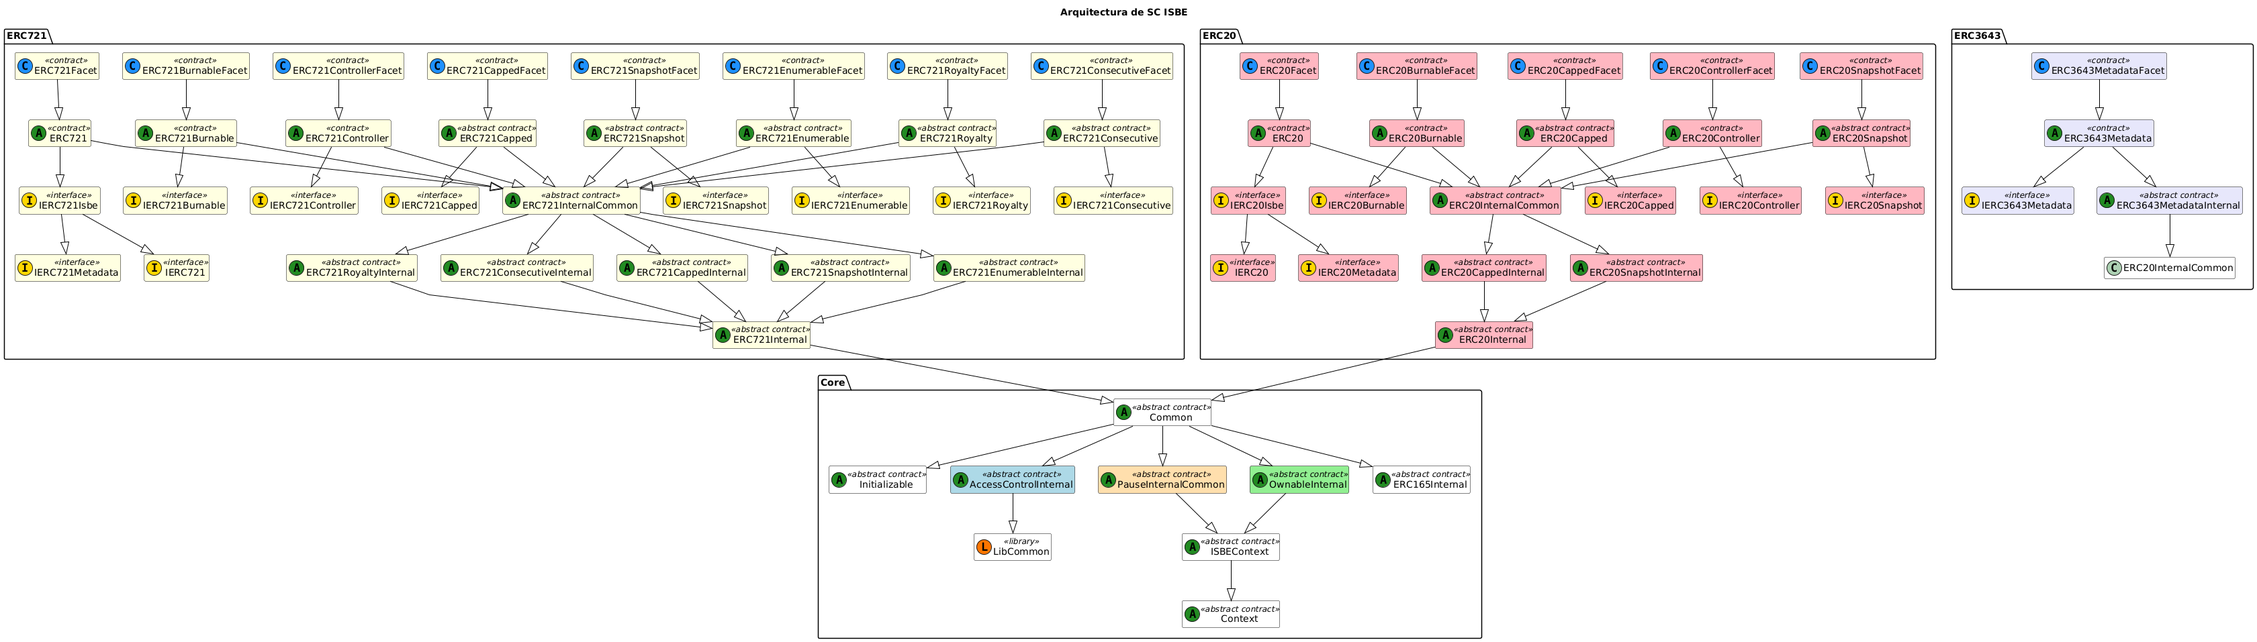
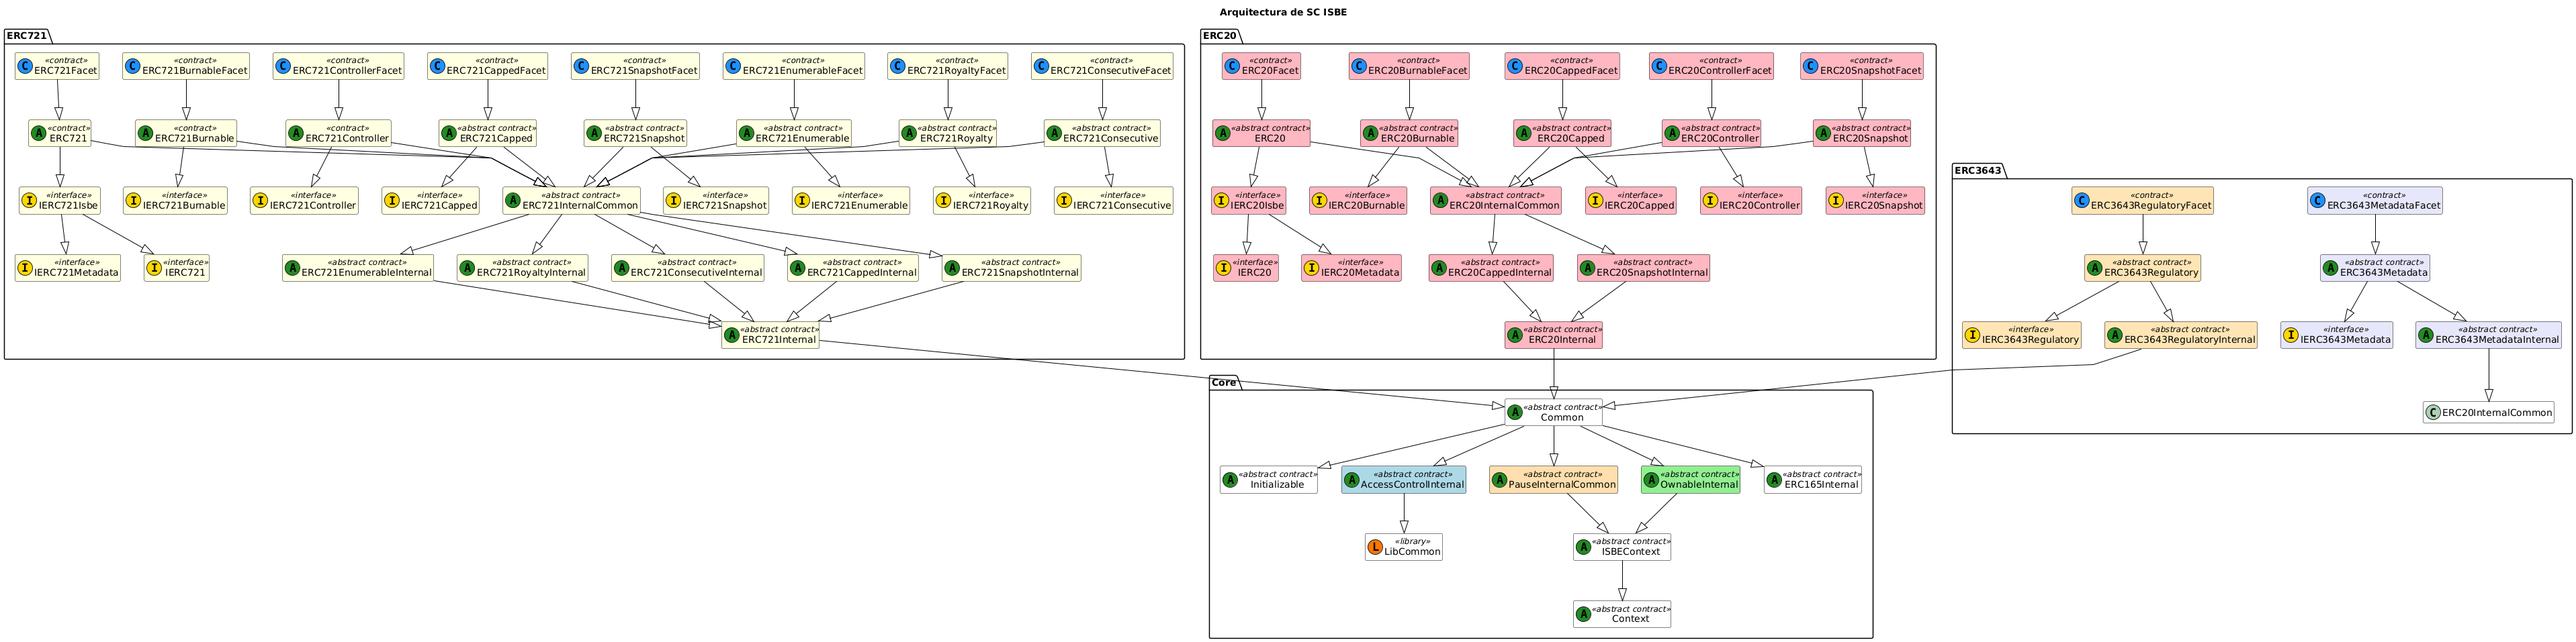
Fix UML diagram and naming on adr of regulatory infra module contracts

diff --git a/docs/adrs/ADR_003-3643-IERC3643.md b/docs/adrs/ADR_003-3643-IERC3643.md
@@ -122,10 +122,10 @@ We chose **Option 2** because it allows access control and event emission to be 
 
 | Method                       | Module                    | Interface              | Internal             | External           | Facet                      | Comment                                                                 |
 | ---------------------------- | ------------------------- | ---------------------- | -------------------- | ------------------ | -------------------------- | ----------------------------------------------------------------------- |
-| `identityRegistry()`         | Regulatory Infrastructure | IERC3643Regulatory     | RegulatoryInternal   | ERC3643Regulatory  | ERC3643RegulatoryFacet     | Returns current IdentityRegistry address                                |
-| `compliance()`               | Regulatory Infrastructure | IERC3643Regulatory     | RegulatoryInternal   | ERC3643Regulatory  | ERC3643RegulatoryFacet     | Returns current Compliance contract address                             |
-| `setIdentityRegistry(address)` | Regulatory Infrastructure | IERC3643Regulatory     | RegulatoryInternal   | ERC3643Regulatory  | ERC3643RegulatoryFacet     | Emits `IdentityRegistryAdded`. Only tokenOwner                          |
-| `setCompliance(address)`     | Regulatory Infrastructure | IERC3643Regulatory     | RegulatoryInternal   | ERC3643Regulatory  | ERC3643RegulatoryFacet     | Emits `ComplianceAdded`. Calls `bindToken` on the compliance contract. Only tokenOwner |
+| `identityRegistry()`         | Regulatory Infrastructure | IERC3643Regulatory     | ERC3643RegulatoryInternal   | ERC3643Regulatory  | ERC3643RegulatoryFacet     | Returns current IdentityRegistry address                                |
+| `compliance()`               | Regulatory Infrastructure | IERC3643Regulatory     | ERC3643RegulatoryInternal   | ERC3643Regulatory  | ERC3643RegulatoryFacet     | Returns current Compliance contract address                             |
+| `setIdentityRegistry(address)` | Regulatory Infrastructure | IERC3643Regulatory     | ERC3643RegulatoryInternal   | ERC3643Regulatory  | ERC3643RegulatoryFacet     | Emits `IdentityRegistryAdded`. Only tokenOwner                          |
+| `setCompliance(address)`     | Regulatory Infrastructure | IERC3643Regulatory     | ERC3643RegulatoryInternal   | ERC3643Regulatory  | ERC3643RegulatoryFacet     | Emits `ComplianceAdded`. Calls `bindToken` on the compliance contract. Only tokenOwner |
 
 - The IERC3643 interface methods related to **regulatory infrastructure** are fully implemented in `ERC3643Regulatory`.  
 - Internal storage tracks the identity registry and compliance contract addresses.  
